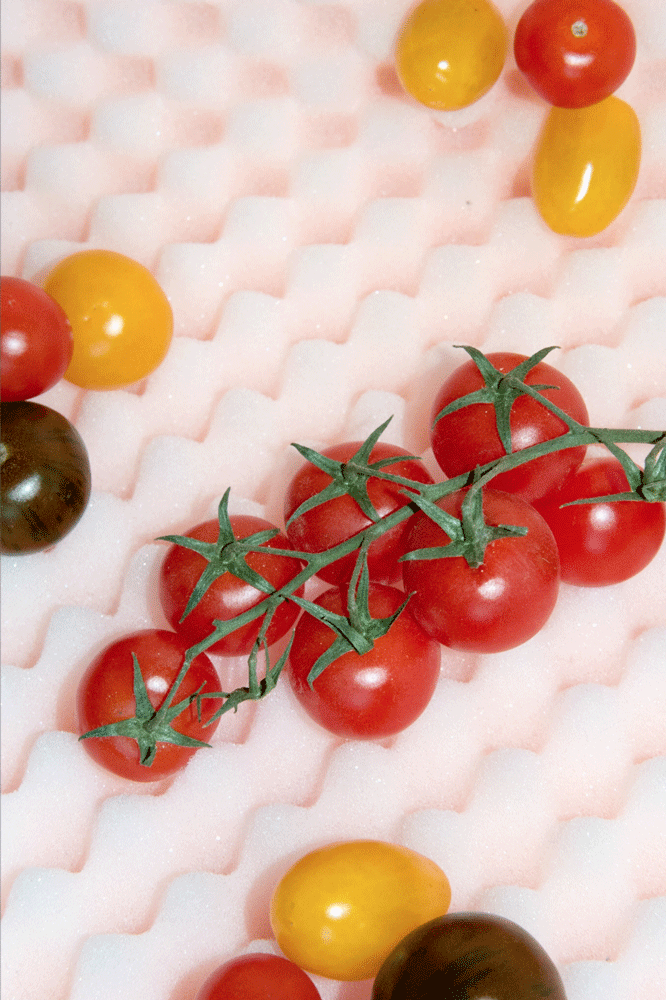
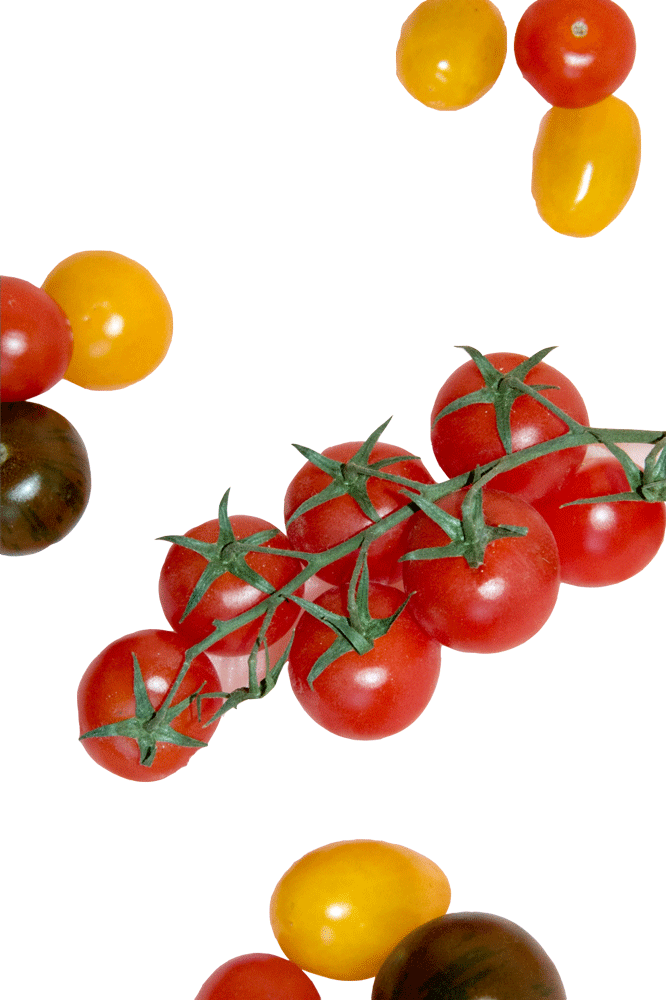
change tomato image effect, add sweet potato text

diff --git a/app/scripts/services/scrolling.js b/app/scripts/services/scrolling.js
@@ -34,7 +34,7 @@
         .setTween(sideBarLinesTween)
         .addTo(scrollingController);
 
-      var sideBar = new ScrollMagic.Scene({triggerElement: "#trigger-tomato-frame", duration: $(document).height()})
+      var sideBar = new ScrollMagic.Scene({triggerElement: "#trigger-tomato-hg", duration: $(document).height()})
         .triggerHook(1)
         .setPin("#target-side-bar", {pushFollowers: false})
         .setClassToggle("#target-side-bar", "side-bar")
@@ -46,21 +46,16 @@
         .setPin("#target-side-bar-lines", {pushFollowers: false})
         .addTo(scrollingController);
 
-      var tomatoFrame = new ScrollMagic.Scene({triggerElement: "#trigger-tomato-frame", duration: 2.2 * $(window).height()
+      var tomatoHg = new ScrollMagic.Scene({triggerElement: "#trigger-tomato-hg", duration: 2.2 * $(window).height()
     })
         .triggerHook(0)
-        .setPin("#target-tomato-frame", {pushFollowers: false})
+        .setPin("#target-tomato-hg", {pushFollowers: false})
         .setClassToggle("#side-bar-tomato", "active")
         .addTo(scrollingController);
 
       var tomatoImg = new ScrollMagic.Scene({triggerElement: "#trigger-tomato-img", duration: $(window).height() })
         .triggerHook(0)
         .setPin("#target-tomato-img", {pushFollowers: false})
-        .addTo(scrollingController);
-
-      var tomatoImg = new ScrollMagic.Scene({triggerElement: "#trigger-tomato-img", duration: $(window).height() })
-        .triggerHook(0)
-        .setPin("#target-tomato-img-layer", {pushFollowers: false})
         .addTo(scrollingController);
 
       var tomatoText = new ScrollMagic.Scene({triggerElement: "#trigger-tomato-text", duration: 0.6 * $(window).height()})

diff --git a/app/styles/vegetable-screens.scss b/app/styles/vegetable-screens.scss
@@ -7,31 +7,20 @@
   z-index: -10;
 }
 
+.tomato-hg {
+  position: absolute;
+  left: 18vw;
+  top: 0;
+  z-index: 20;
+  img { height: 100vh; }
+}
+
 .tomato-img {
   position: absolute;
   left: 18vw;
   top: 120vh;
   z-index: 10;
-  &.tomato-layer { z-index: 30; }
   img { height: 100vh; }
-}
-
-.tomato-overlay-position {
-  position: absolute;
-  left: 18vw;
-  height: 100vh;
-  width: 67vh;
-  display: flex;
-  align-items: center;
-  justify-content: center;
-  z-index: 20;
-
-  .tomato-overlay {
-    top: 5vh;
-    height: 90vh;
-    width: 55vh;
-    border: 7px solid $red;
-  }
 }
 
 .tomato-text-position {
@@ -43,13 +32,21 @@
 }
 
 .screen-sweet-potato {
-  height: 100vh;
+  height: 150vh;
 }
 
 .sweet-potato-img img {
-  height: 80vh;
+  height: 70vh;
   position: absolute;
   top: -7vh;
   right: 5vw;
   z-index: 0;
+}
+
+.sweet-potato-text-position {
+  position: absolute;
+  width: 75vw;
+  top: 75vh;
+  right: 5vw;
+  text-align: right;
 }

diff --git a/app/index.html b/app/index.html
@@ -90,15 +90,12 @@
     </div>
 
     <a id="tomato"></a>
-    <div id="trigger-tomato-frame" class="screen screen-tomato">
-      <div id="target-tomato-frame" class="tomato-overlay-position">
-        <div class="tomato-overlay"></div>
+    <div id="trigger-tomato-hg" class="screen screen-tomato">
+      <div id="target-tomato-hg" class="tomato-hg">
+        <img src="images/tomato-hg.png">
       </div>
       <div id="trigger-tomato-img" class="tomato-img">
         <img id="target-tomato-img" ng-src="{{ PLANTS[0].IMG }}">
-      </div>
-      <div class="tomato-img tomato-layer">
-        <img id="target-tomato-img-layer" src="images/tomato-layer.png">
       </div>
       <div id="trigger-tomato-text" class="tomato-text-position">
         <div id="target-tomato-text" class="tomato-text">
